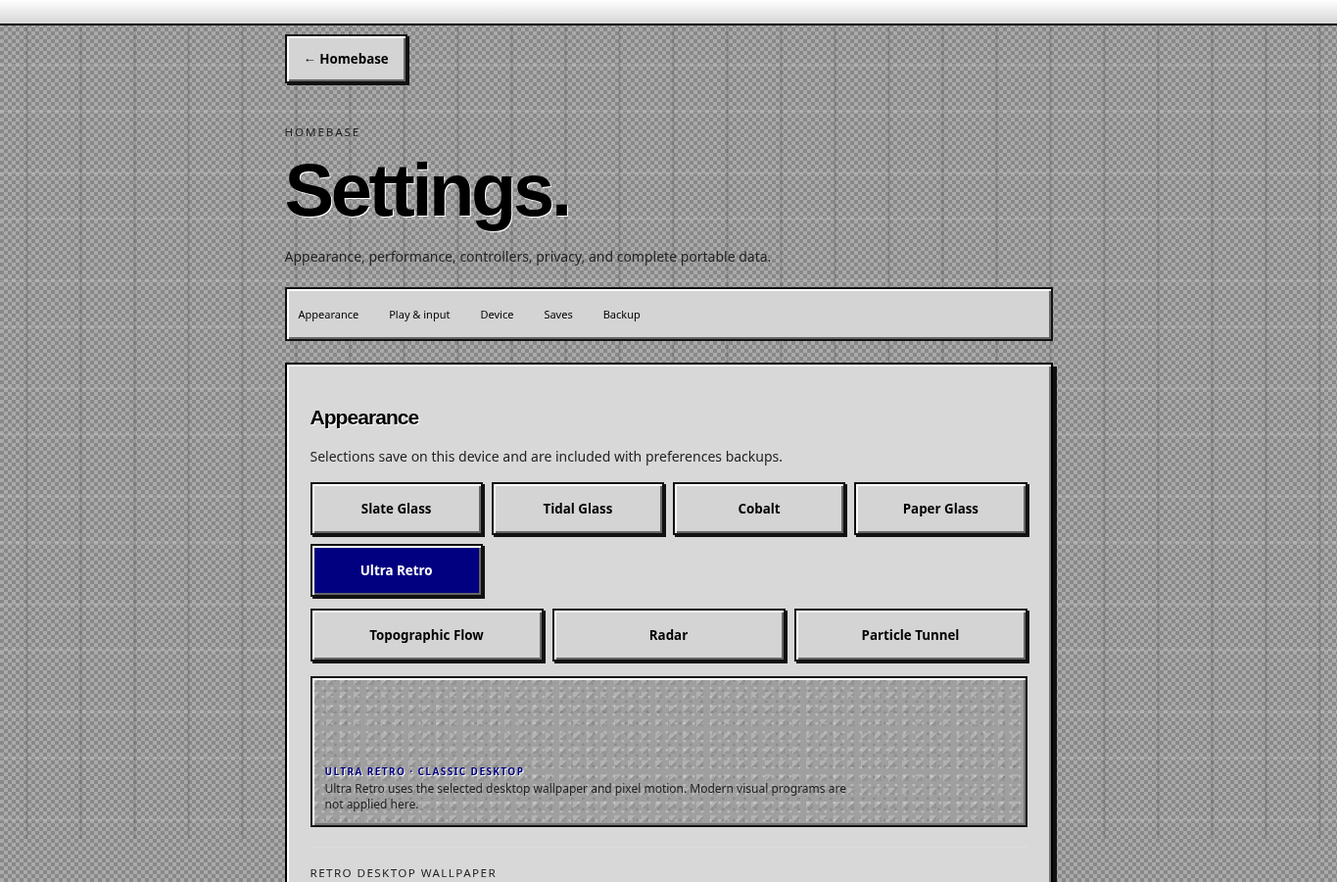
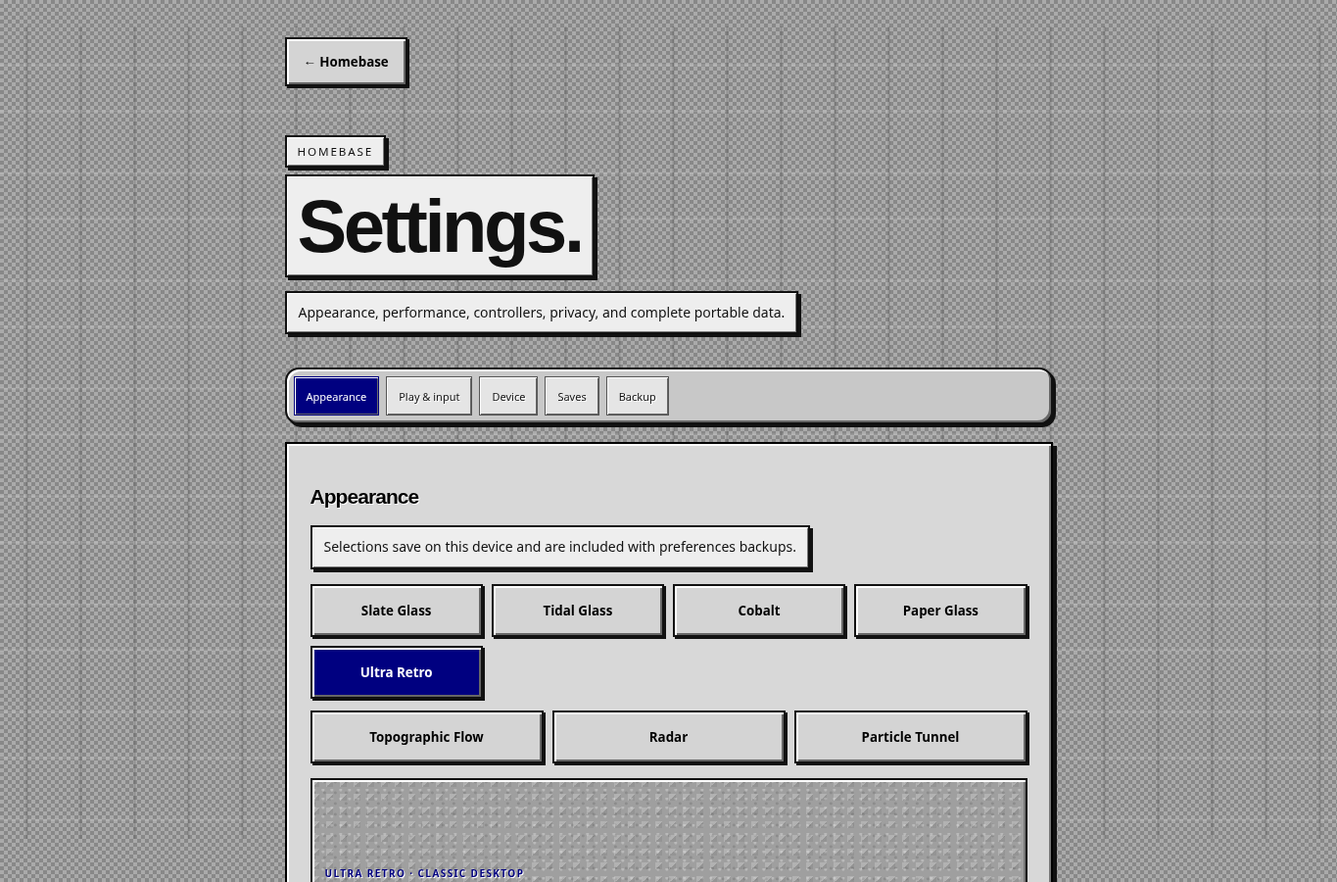
refresh browse and relay documentation

Changed region(s): [[0.0, 0.0, 1.0, 1.0]]

diff --git a/assets/scripts/homebase/relay-workspace.js b/assets/scripts/homebase/relay-workspace.js
@@ -1,1 +1,16 @@
-(()=>{const boot=async()=>{const host=document.querySelector('.console-shell');if(!host||document.querySelector('#relay-workspace'))return;let files=[];try{files=(await fetch('/api/relay/workspace').then(r=>r.json())).files||[]}catch{return}const panel=document.createElement('section');panel.id='relay-workspace';panel.className='assistant-terminal relay-workspace';panel.innerHTML='<div><span>RELAY@CORE</span><b> WORKSPACE EDITOR</b></div><p>Review and edit selected Homebase files. A timestamped local backup is made before every confirmed write.</p><select></select><textarea spellcheck="false" placeholder="Choose a file to load it here."></textarea><div class="row"><button data-load>Load</button><button data-save disabled>Apply confirmed edit</button></div><small></small>';host.append(panel);const select=panel.querySelector('select'),area=panel.querySelector('textarea'),note=panel.querySelector('small'),load=panel.querySelector('[data-load]'),save=panel.querySelector('[data-save]');select.innerHTML=files.map(file=>'<option value="'+file.id+'">'+file.path+'</option>').join('');load.onclick=async()=>{note.textContent='Loading review copy…';const data=await fetch('/api/relay/workspace?file='+encodeURIComponent(select.value)).then(r=>r.json());area.value=data.content||'';save.disabled=false;note.textContent='Loaded '+data.path+'. Review, edit, then confirm.'};save.onclick=async()=>{if(!confirm('Apply this edit to '+select.options[select.selectedIndex].text+'? A backup will be made.'))return;const confirmation=prompt('Type APPLY CORE EDIT to write this reviewed file.');if(confirmation!=='APPLY CORE EDIT')return;save.disabled=true;try{const data=await fetch('/api/relay/workspace/apply',{method:'POST',headers:{'Content-Type':'application/json'},body:JSON.stringify({file:select.value,content:area.value,confirm:confirmation})}).then(r=>r.json());if(data.error)throw Error(data.error);note.textContent='Saved. Backup: '+data.backup}catch(error){note.textContent=error.message}finally{save.disabled=false}};document.head.insertAdjacentHTML('beforeend','<style>#relay-workspace textarea{width:100%;min-height:180px;margin:9px 0;background:#071016;color:#dff5ff;border:1px solid #477084;padding:9px;font:11px ui-monospace,monospace}#relay-workspace select{max-width:100%;min-height:38px}html[data-theme="ultra-retro"] #relay-workspace textarea{color:#111;background:#fff;border:2px inset #eee}html[data-theme="ultra-retro"] #relay-workspace select{color:#111;background:#d4d4d4}</style>')};addEventListener('DOMContentLoaded',boot,{once:true});setTimeout(boot,500)})();
+(()=>{
+  const request=async(path,options)=>{const response=await fetch(path,options);const data=await response.json().catch(()=>({}));if(!response.ok)throw Error(data.error||'Local workspace request failed');return data};
+  const boot=async()=>{
+    const host=document.querySelector('.console-shell');if(!host||document.querySelector('#relay-workspace'))return;
+    let files=[];try{files=(await request('/api/relay/workspace')).files||[]}catch{return}
+    const panel=document.createElement('section');panel.id='relay-workspace';panel.className='assistant-terminal relay-workspace';
+    panel.innerHTML=`<div><span>RELAY@CORE</span><b> WORKSPACE EDITOR</b></div><p>Review selected Homebase code here. Relay can draft a change using your optional local API key, but it never writes it for you. Every confirmed save makes a timestamped local backup.</p><select aria-label="Core file"></select><textarea class="relay-task" rows="2" placeholder="Optional: describe an edit for Relay to draft"></textarea><div class="row"><button data-load>Load</button><button data-draft disabled>Draft with Relay</button><button data-save disabled>Apply confirmed edit</button></div><textarea class="relay-source" spellcheck="false" placeholder="Choose a file to load its review copy here."></textarea><small></small>`;
+    host.append(panel);const select=panel.querySelector('select'),task=panel.querySelector('.relay-task'),area=panel.querySelector('.relay-source'),note=panel.querySelector('small'),load=panel.querySelector('[data-load]'),draft=panel.querySelector('[data-draft]'),save=panel.querySelector('[data-save]');
+    select.innerHTML=files.map(file=>`<option value="${file.id}">${file.path}</option>`).join('');
+    load.onclick=async()=>{load.disabled=true;note.textContent='Loading review copy…';try{const data=await (window.HomebaseAgent?.readCore?.(select.value)||request('/api/relay/workspace?file='+encodeURIComponent(select.value)));area.value=data.content||'';draft.disabled=false;save.disabled=false;note.textContent='Loaded '+data.path+'. Review it, or ask Relay for a draft.'}catch(error){note.textContent=error.message}finally{load.disabled=false}};
+    draft.onclick=async()=>{const instruction=task.value.trim();if(!instruction){task.focus();note.textContent='Describe the edit you want Relay to draft first.';return}if(!area.value){note.textContent='Load a source file first.';return}draft.disabled=true;note.textContent='Relay is drafting a review copy…';try{const data=await (window.HomebaseAgent?.draftCore?.(select.value,instruction)||request('/api/relay/workspace/draft',{method:'POST',headers:{'Content-Type':'application/json'},body:JSON.stringify({file:select.value,instruction})}));area.value=data.content||area.value;note.textContent='Draft ready: '+(data.summary||'Review it carefully before applying.');save.disabled=false}catch(error){note.textContent=error.message}finally{draft.disabled=false}};
+    save.onclick=async()=>{if(!confirm('Apply this reviewed edit to '+select.options[select.selectedIndex].text+'? A local backup will be made.'))return;const confirmation=prompt('Type APPLY CORE EDIT to write this reviewed file.');if(confirmation!=='APPLY CORE EDIT')return;save.disabled=true;note.textContent='Saving reviewed edit…';try{const data=await (window.HomebaseAgent?.applyCore?.(select.value,area.value,confirmation)||request('/api/relay/workspace/apply',{method:'POST',headers:{'Content-Type':'application/json'},body:JSON.stringify({file:select.value,content:area.value,confirm:confirmation})}));note.textContent='Saved. Backup: '+data.backup}catch(error){note.textContent=error.message}finally{save.disabled=false}};
+    document.head.insertAdjacentHTML('beforeend',`<style>#relay-workspace{margin-top:14px}#relay-workspace select,#relay-workspace textarea{width:100%;max-width:100%;margin:9px 0}#relay-workspace select{min-height:38px}#relay-workspace textarea{border:1px solid #477084;padding:9px;background:#071016;color:#dff5ff;font:11px ui-monospace,monospace}#relay-workspace .relay-task{min-height:55px;resize:vertical}#relay-workspace .relay-source{min-height:220px;resize:vertical}#relay-workspace .row{display:flex;flex-wrap:wrap;gap:7px}#relay-workspace .row button{min-height:38px}html[data-theme="ultra-retro"] #relay-workspace textarea{color:#111;background:#fff;border:2px inset #eee}html[data-theme="ultra-retro"] #relay-workspace select{color:#111;background:#d4d4d4}</style>`);
+  };
+  addEventListener('DOMContentLoaded',boot,{once:true});setTimeout(boot,500);
+})();

diff --git a/assets/styles/discovery/browse-retro-contrast.css b/assets/styles/discovery/browse-retro-contrast.css
@@ -1,0 +1,20 @@
+/* Every readable Browse surface gets its own old-computer panel. Nothing
+   depends on the patterned Ultra Retro desktop for contrast. */
+html[data-theme="ultra-retro"] header{background:#d4d4d4!important;color:#111!important;border-bottom:2px solid #111!important;box-shadow:inset 2px 2px #fff,inset -2px -2px #777!important}
+html[data-theme="ultra-retro"] header :is(h1,small,#source){color:#111!important;text-shadow:none!important}
+html[data-theme="ultra-retro"] header small,#source{display:table;padding:4px 6px;background:#eee!important;border:1px solid #111!important}
+html[data-theme="ultra-retro"] nav{padding-top:8px!important;padding-bottom:12px!important;background:#c7c7c7!important;border-block:1px solid #111!important}
+html[data-theme="ultra-retro"] nav button{color:#111!important;background:#dedede!important;border:2px outset #eee!important;border-radius:0!important;text-shadow:none!important;box-shadow:inset 1px 1px #fff,inset -1px -1px #666!important}
+html[data-theme="ultra-retro"] nav button.active{color:#fff!important;background:#000080!important;border-color:#111!important}
+html[data-theme="ultra-retro"] main{background:transparent!important}
+html[data-theme="ultra-retro"] #suggestions button{color:#111!important;background:#e5e5e5!important;border:2px outset #eee!important;border-radius:0!important;text-shadow:none!important}
+html[data-theme="ultra-retro"] #search input{color:#111!important;background:#fff!important;border:2px inset #eee!important;border-radius:0!important}
+html[data-theme="ultra-retro"] #search button{color:#fff!important;background:#000080!important;border:2px outset #eee!important;border-radius:0!important}
+html[data-theme="ultra-retro"] .result{color:#111!important;background:#e4e4e4!important;border:2px solid #111!important;border-radius:0!important;box-shadow:inset 2px 2px #fff,inset -2px -2px #777,4px 4px #111!important}
+html[data-theme="ultra-retro"] .result :is(h2,p,time){color:#111!important;text-shadow:none!important}
+html[data-theme="ultra-retro"] .result time{display:table;padding:3px 5px;background:#d4d4d4!important;border:1px solid #777!important}
+html[data-theme="ultra-retro"] .result:hover,html[data-theme="ultra-retro"] .result:focus-visible{color:#fff!important;background:#263b3f!important;border-color:#111!important;outline:2px dotted #fff!important;outline-offset:-6px!important}
+html[data-theme="ultra-retro"] .result:hover :is(h2,p,time),html[data-theme="ultra-retro"] .result:focus-visible :is(h2,p,time){color:#fff!important;background:transparent!important}
+html[data-theme="ultra-retro"] dialog{color:#111!important;background:#dedede!important;border:3px solid #111!important;border-radius:0!important;box-shadow:inset 2px 2px #fff,inset -2px -2px #777,7px 7px #111!important}
+html[data-theme="ultra-retro"] dialog :is(h1,h2,h3,p,small){color:#111!important;text-shadow:none!important}
+html[data-theme="ultra-retro"] dialog .close{color:#111!important;background:#d4d4d4!important;border:2px outset #eee!important;border-radius:0!important}

diff --git a/pages/browse.html b/pages/browse.html
@@ -1,6 +1,6 @@
 <!doctype html>
 <html lang="en"><head><meta charset="utf-8"><meta name="viewport" content="width=device-width,initial-scale=1">
-<title>Browse · Homebase</title><link rel="stylesheet" href="/assets/styles/discovery/browse.css"><link rel="stylesheet" href="/assets/styles/discovery/browse-enhancements.css"><link rel="stylesheet" href="/assets/styles/discovery/browse-layout-fix.css"><link rel="stylesheet" href="/assets/styles/discovery/browse-article-nav.css?v=83"><link rel="stylesheet" href="/assets/styles/shared/ultra-retro.css"><link rel="stylesheet" href="/assets/styles/discovery/browse-retro-title.css"><link rel="stylesheet" href="/assets/styles/discovery/browse-browser-chrome.css?v=94"><script src="/assets/scripts/shared/theme-sync.js"></script></head>
+<title>Browse · Homebase</title><link rel="stylesheet" href="/assets/styles/discovery/browse.css"><link rel="stylesheet" href="/assets/styles/discovery/browse-enhancements.css"><link rel="stylesheet" href="/assets/styles/discovery/browse-layout-fix.css"><link rel="stylesheet" href="/assets/styles/discovery/browse-article-nav.css?v=83"><link rel="stylesheet" href="/assets/styles/shared/ultra-retro.css"><link rel="stylesheet" href="/assets/styles/discovery/browse-retro-title.css"><link rel="stylesheet" href="/assets/styles/discovery/browse-browser-chrome.css?v=94"><link rel="stylesheet" href="/assets/styles/discovery/browse-retro-contrast.css?v=101"><script src="/assets/scripts/shared/theme-sync.js"></script></head>
 <body><header><button class="back" onclick="parent!==window?parent.closePocket():history.back()">← Homebase</button><div><small>LIVE DISCOVERY</small><h1>Browse.</h1></div><span id="source"></span></header>
 <div class="browser-chrome" aria-label="Homebase web browser"><span class="browser-lights" aria-hidden="true"><i></i><i></i><i></i></span><button type="button" class="browser-nav" aria-label="Back">←</button><button type="button" class="browser-nav" aria-label="Forward">→</button><div class="browser-address"><span>▣</span><b id="browser-base"></b><em id="browser-route"></em></div><span class="browser-activity" aria-hidden="true"></span></div>
 <nav><button class="active" data-mode="news">News</button><button data-mode="ai">AI</button><button data-mode="dev">Dev</button><button data-mode="security">Security</button><button data-mode="research">Research</button><button data-mode="games">Games</button><button data-mode="books">Books</button><button data-mode="reference">Reference</button><button data-mode="apis">API catalog</button><button data-mode="projects">Open-source tools</button><button data-mode="linux">Linux apps</button></nav>

diff --git a/assets/scripts/agent/client.js b/assets/scripts/agent/client.js
@@ -1,2 +1,2 @@
 /* Shared local-first agent client. Components consume capabilities, never raw server internals. */
-(()=>{const request=async(path,options)=>{const response=await fetch(path,options);const data=await response.json().catch(()=>({}));if(!response.ok)throw Error(data.error||'Local tool request failed');return data};window.HomebaseAgent={status:()=>request('/api/assistant/status'),tools:()=>request('/api/agent/tools'),taxonomy:()=>request('/api/taxonomy'),query:(scope,q='')=>request('/api/agent/query?scope='+encodeURIComponent(scope)+'&q='+encodeURIComponent(q)),ask:message=>request('/api/assistant',{method:'POST',headers:{'Content-Type':'application/json'},body:JSON.stringify({message})}),workspace:()=>request('/api/relay/workspace'),readCore:id=>request('/api/relay/workspace?file='+encodeURIComponent(id)),applyCore:(file,content,confirm)=>request('/api/relay/workspace/apply',{method:'POST',headers:{'Content-Type':'application/json'},body:JSON.stringify({file,content,confirm})})}})();
+(()=>{const request=async(path,options)=>{const response=await fetch(path,options);const data=await response.json().catch(()=>({}));if(!response.ok)throw Error(data.error||'Local tool request failed');return data};window.HomebaseAgent={status:()=>request('/api/assistant/status'),tools:()=>request('/api/agent/tools'),taxonomy:()=>request('/api/taxonomy'),query:(scope,q='')=>request('/api/agent/query?scope='+encodeURIComponent(scope)+'&q='+encodeURIComponent(q)),ask:message=>request('/api/assistant',{method:'POST',headers:{'Content-Type':'application/json'},body:JSON.stringify({message})}),workspace:()=>request('/api/relay/workspace'),readCore:id=>request('/api/relay/workspace?file='+encodeURIComponent(id)),draftCore:(file,instruction)=>request('/api/relay/workspace/draft',{method:'POST',headers:{'Content-Type':'application/json'},body:JSON.stringify({file,instruction})}),applyCore:(file,content,confirm)=>request('/api/relay/workspace/apply',{method:'POST',headers:{'Content-Type':'application/json'},body:JSON.stringify({file,content,confirm})})}})();

diff --git a/server.py b/server.py
@@ -119,6 +119,33 @@ def openai_assistant(message):
         return answer.strip()[:600] or None
     except (OSError, ValueError, KeyError): return None
 
+def draft_core_edit(file_id, instruction):
+    """Return a review-only source draft. This function never writes core files."""
+    try: key = ASSISTANT_KEY_FILE.read_text(encoding="utf-8").strip()
+    except OSError: raise ValueError("connect an API key in Relay before drafting a core edit")
+    path = CORE_EDITABLE.get(file_id)
+    if not key: raise ValueError("connect an API key in Relay before drafting a core edit")
+    if not path or not path.is_file(): raise ValueError("choose an allowed core file")
+    current = path.read_text(encoding="utf-8")
+    if len(current) > 100000: raise ValueError("that core file is too large for a safe single-draft review; split the requested change into a smaller module first")
+    task = str(instruction or "").strip()[:2000]
+    if not task: raise ValueError("describe the change Relay should draft")
+    prompt = ("You are drafting one reviewable edit for a local Homebase web app. "
+        "Return JSON only with keys summary and content. content must be the COMPLETE replacement file, not a diff. "
+        "Preserve unrelated behavior and do not add network calls, credential handling, shell execution, telemetry, eval, dynamic imports, or external dependencies. "
+        "This is a draft only: the person will review it before a separate confirmation-gated save.\n\n"
+        f"File: {path.relative_to(ROOT)}\nRequest: {task}\n\nCurrent file:\n{current}")
+    payload={"model":os.environ.get("HOMEBASE_OPENAI_MODEL","gpt-4.1-mini"),"store":False,"input":prompt,
+        "text":{"format":{"type":"json_object"}},"max_output_tokens":14000}
+    request=urllib.request.Request("https://api.openai.com/v1/responses",data=json.dumps(payload).encode(),headers={"Authorization":"Bearer "+key,"Content-Type":"application/json"},method="POST")
+    try:
+        with urllib.request.urlopen(request,timeout=90) as response:data=json.load(response)
+        raw=data.get("output_text") or "".join(part.get("text","") for item in data.get("output",[]) for part in item.get("content",[]) if part.get("type")=="output_text")
+        draft=json.loads(raw); content=str(draft.get("content") or "")
+    except (OSError, ValueError, KeyError) as error: raise ValueError("Relay could not draft that edit: "+str(error)[:140])
+    if not content or len(content)>250000: raise ValueError("Relay returned an unusable draft; nothing was changed")
+    return {"summary":str(draft.get("summary") or "Review the draft before applying it.")[:500],"content":content}
+
 def create_relay_app(description, framework):
     """Generate a small, self-contained user app. Core Homebase files are never writable here."""
     try: key = ASSISTANT_KEY_FILE.read_text(encoding="utf-8").strip()
@@ -419,7 +446,8 @@ class PocketArchiveHandler(SimpleHTTPRequestHandler):
                         with urllib.request.urlopen(request,timeout=5) as response:data=json.load(response)
                         for service,versions in data.items():
                             for version,entry in versions.get("versions",{}).items():
-                                info=entry.get("info",{}); title=info.get("title") or service; summary=info.get("description") or "Documented OpenAPI service."
+                                info=entry.get("info",{}); title=info.get("title") or service; summary=html.unescape(re.sub(r"<[^>]+>"," ",str(info.get("description") or "Documented OpenAPI service.")))
+                                summary=re.sub(r"\s+"," ",summary).strip()
                                 if term and term not in (title+" "+summary+" "+service).casefold(): continue
                                 records.append({"kind":"OpenAPI directory","title":title,"summary":summary[:500],"meta":"OpenAPI "+str(info.get("version") or version)+" · "+service,"image":entry.get("info",{}).get("x-logo",{}).get("url","") if isinstance(entry.get("info",{}).get("x-logo",{}),dict) else "","url":entry.get("swaggerUrl") or entry.get("swaggerYamlUrl") or "https://apis.guru/"})
                     except (OSError, ValueError, KeyError):
@@ -761,6 +789,13 @@ class PocketArchiveHandler(SimpleHTTPRequestHandler):
                 payload=json.loads(self.rfile.read(length) or b"{}"); description=str(payload.get("description","")).strip()[:3000]; framework=str(payload.get("framework","Vanilla HTML/CSS/JS"))[:50]
                 if not description: raise ValueError("describe the app first")
                 self._json(200,{"app":create_relay_app(description,framework)})
+            except (OSError, ValueError, TypeError) as error:self._json(400,{"error":str(error)})
+            return
+        if route.path == "/api/relay/workspace/draft":
+            length=min(int(self.headers.get("Content-Length","0")),16*1024)
+            try:
+                payload=json.loads(self.rfile.read(length) or b"{}"); file_id=str(payload.get("file","")).strip(); instruction=str(payload.get("instruction","")).strip()
+                self._json(200,draft_core_edit(file_id,instruction))
             except (OSError, ValueError, TypeError) as error:self._json(400,{"error":str(error)})
             return
         if route.path == "/api/assistant/app/delete":

diff --git a/README.md b/README.md
@@ -47,7 +47,9 @@ Homebase ships without commercial games. To add a backup you legally made:
 3. Optionally put your own cover PNGs or real gameplay GIFs in `covers/`.
 4. Reload Pocket Archive, open a game card, then use **Play** or **Controller layout**.
 
-![Pocket Archive game shelf with intentionally blurred local artwork](media/pocket-archive.png)
+![Pocket Archive game shelf with intentionally pixelated local artwork](media/pocket-archive.png)
+
+> **Why the pixelation?** Public screenshots use a retro mosaic treatment whenever they could reveal local ROM covers or gameplay. The actual local Pocket Archive shows the real images supplied by its owner; the public repository does not publish those private or copyrighted assets.
 
 Supported systems include Game Boy, GBC, GBA, NES, SNES, Genesis, N64, and PlayStation. The in-app **Add your games** guide explains filenames, artwork, privacy, and recommended GIF sizes. ROMs, BIOS files, saves, and private artwork are ignored by Git and remain local.
 
@@ -67,13 +69,13 @@ This is not a replacement operating system. It is a fast console-like layer over
 
 | Your private game shelf | Recommendation-only discovery |
 |---|---|
-| ![Pocket Archive with intentionally blurred local game artwork](media/pocket-archive.png) | ![Browse, Homebase’s retro internet-style discovery browser](media/rom-discovery.png) |
+| ![Pocket Archive with intentionally pixelated local game artwork](media/pocket-archive.png) | ![Browse, Homebase’s retro internet-style discovery browser](media/rom-discovery.png) |
 
 Pocket Archive launches a locally installed EmulatorJS runtime for GBA, Game Boy, GBC, NES, SNES, Genesis, N64, and PlayStation files supplied by the user. Each game can have a detail sheet, swipeable gallery, Xbox controller diagram, save controls, performance profile, and fullscreen CRT presentation.
 
 ROM Discovery is deliberately separate from the installed library. It contains recommendations, hardware-fit notes, multiplayer information, expected emulator cores, and links for researching legal copies. It does not download ROMs and does not claim a suggested game is installed.
 
-The Pocket Archive documentation capture uses actual local game imagery with a deliberately strong privacy blur. It communicates the real shelf without publishing sharp cover art or gameplay captures. Personal ROMs, saves, and source artwork are not committed.
+The Pocket Archive documentation capture uses a deliberate pixel-mosaic privacy treatment over local game imagery. It communicates the real shelf without publishing sharp cover art or gameplay captures; in the installed local app, owners still see their own real images. Personal ROMs, saves, and source artwork are not committed.
 
 ### Orbit visual radio
 
@@ -81,11 +83,17 @@ The Pocket Archive documentation capture uses actual local game imagery with a d
 
 Orbit combines internet radio and local audio playlists with audio-reactive visuals. Wave is the default; other modes include radar, tunnel, nebula, and a club-style light field. The selected visual continues in the low-cost mini player while navigating Homebase, with play, pause, previous, next, expand, and close controls.
 
+### Relay workspace
+
+Relay works as a local guide without a key, or can use a locally stored API key for richer chat and draft help. Its **Workspace Editor** can load an allowlisted set of Homebase core files, create a review-only AI draft, and apply a reviewed edit only after explicit typed confirmation. Every write makes a timestamped local backup. Generated mini-apps remain isolated in `user-apps/`; they do not gain core-file access.
+
 ### App search and installation
 
 ![Your Linux apps inside Browse’s Ultra Retro Explorer](media/app-discovery.png)
 
-Homebase reads actual desktop launchers and Flatpak state before calling an app installed. The **Browse** internet-style explorer now includes live News, AI, Dev, Security, Research, Games, Books, Reference, open-source tools, and Linux apps lanes. Explore searches the Flathub catalog, opens an in-app detail view with screenshots, and runs installs as observable background jobs. If automatic installation is unavailable, every app includes a copyable terminal fallback:
+Homebase reads actual desktop launchers and Flatpak state before calling an app installed. The **Browse** internet-style explorer includes live News, AI, Dev, Security, Research, Games, Books, Reference, open-source tools, Linux apps, and a searchable **320-entry public API catalog**. Each lane has paging, source links, touch-friendly detail sheets, and dedicated Ultra Retro reading surfaces so text stays legible over the desktop pattern. Linux App Explore searches the Flathub catalog, opens an in-app detail view with screenshots, and runs installs as observable background jobs. If automatic installation is unavailable, every app includes a copyable terminal fallback:
+
+![Browse API catalog in Ultra Retro](media/browse-api-catalog.png)
 
 ```bash
 flatpak install --user flathub APP_ID
@@ -111,11 +119,11 @@ File access is confined to the current user’s home folder by the local server.
 
 ### Settings, saves, and portable backup
 
-![Settings and selective backup](media/settings-backup.png)
+![Settings and selective backup, presented with a retro pixel-mosaic privacy treatment](media/settings-backup-pixelated.png)
 
 Settings can export or merge independent data groups: My Library, user-provided ROMs, native saves, artwork, imports, mGBA data, Orbit playlists, Flatpak data, browser preferences, and an installed-app inventory. Restore defaults to merge-and-skip; replacing matching files requires an explicit choice.
 
-The README keeps the sharp real capture above for documentation. A lightly blurred version of that exact capture is also included at [`media/settings-backup-blur.png`](media/settings-backup-blur.png) for soft-focus presentation backdrops—no invented interface imagery.
+The README uses a pixelated version of the real Settings capture so public docs keep the same retro visual language and avoid exposing personal data. The installed local app is not pixelated; it shows the real controls, local library, and any owner-provided game imagery. A soft-focus presentation variant remains at [`media/settings-backup-blur.png`](media/settings-backup-blur.png).
 
 EmulatorJS saves live in browser IndexedDB, so Homebase also includes a separate browser-save export/import tool for that protected data.
 
